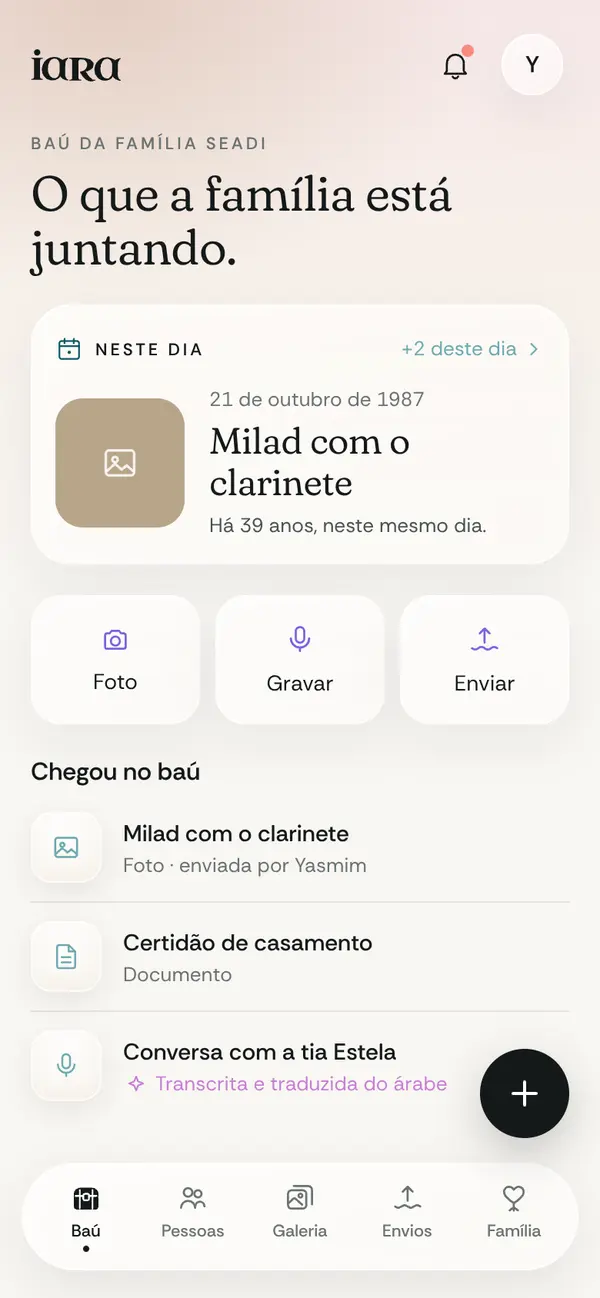
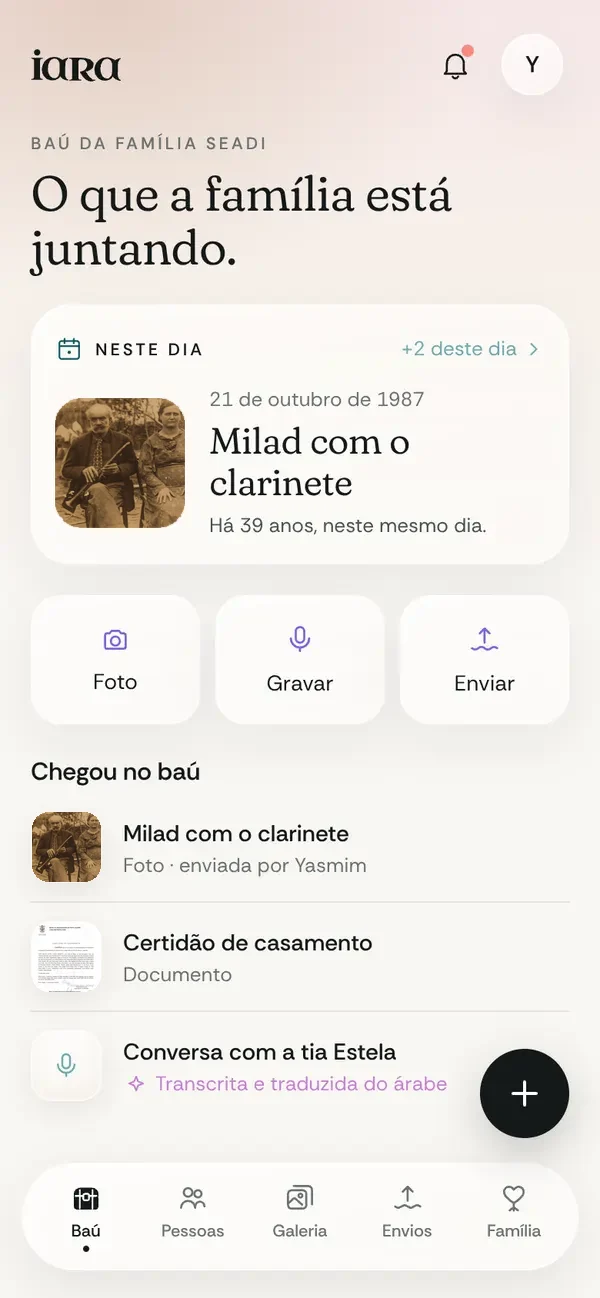
Home com fotos e documentos reais da família: telas do app, árvore com retratos, certidão no baú e foto maior
Claude-Session: https://claude.ai/code/session_016mmud4jD8DTb3bd4q9SCKJ

Changed region(s): [[0.09, 0.3082, 0.33, 0.4314], [0.03, 0.6163, 0.18, 0.678], [0.06, 0.7088, 0.15, 0.7704]]

diff --git a/ar/index.html b/ar/index.html
@@ -145,7 +145,7 @@
               <span class="legenda" data-t="t9"><b>A Brasilian summer</b>At the childhood home</span>
             </div>
             <div class="memoria-voa documento" data-voa="1.15,-0.75,7">
-              <span class="linhas"><i></i><i></i><i></i><i></i><i></i></span>
+              <img class="foto-cor doc-real" src="/imagens/historia/certidao-casamento.webp" alt="" loading="lazy" decoding="async">
               <span class="legenda" data-t="t10"><b>Marriage certificate</b>1920 · Brasil</span>
             </div>
             <div class="memoria-voa voz" data-voa="-1.2,0.55,5">
@@ -282,15 +282,15 @@
           <path pathLength="1" d="M200 357 V 511"/>
         </svg>
         <div class="uniao" style="--x:50%;--y:8.75%" data-t="t42">union</div>
-        <div class="no" style="--x:30%;--y:8.75%;--c:#e870a8" data-profundidade="0.5"><i>MA</i><b><span data-t="nomeMilad">Milad</span> <span class="bandeira">🇱🇧</span></b><small data-t="t43">great-grandfather</small></div>
-        <div class="no" style="--x:70%;--y:8.75%;--c:#f2d48d;--t:#14191a" data-profundidade="0.3"><i>AB</i><b><span data-t="nomeAnna">Anna</span> <span class="bandeira">🇮🇹</span></b><small data-t="t41">great-grandmother</small></div>
+        <div class="no" style="--x:30%;--y:8.75%;--c:#e870a8" data-profundidade="0.5"><i class="com-foto"><img src="/imagens/arvore/milad.webp" alt="" width="240" height="240" loading="lazy" decoding="async"></i><b><span data-t="nomeMilad">Milad</span> <span class="bandeira">🇱🇧</span></b><small data-t="t43">great-grandfather</small></div>
+        <div class="no" style="--x:70%;--y:8.75%;--c:#f2d48d;--t:#14191a" data-profundidade="0.3"><i class="com-foto"><img src="/imagens/arvore/anna.webp" alt="" width="240" height="240" loading="lazy" decoding="async"></i><b><span data-t="nomeAnna">Anna</span> <span class="bandeira">🇮🇹</span></b><small data-t="t41">great-grandmother</small></div>
         <div class="uniao" style="--x:50%;--y:36.25%" data-t="t42">union</div>
         <div class="no" style="--x:30%;--y:36.25%;--c:#4466dc" data-profundidade="0.4"><i>NS</i><b><span data-t="nomeNatal">Natal</span> <span class="bandeira">🇧🇷</span></b><small data-t="r2">grandfather</small></div>
         <div class="no" style="--x:70%;--y:36.25%;--c:#8cc4e2;--t:#14191a" data-profundidade="0.25"><i>DS</i><b><span data-t="nomeDiva">Diva</span> <span class="bandeira">🇧🇷</span></b><small data-t="r3">grandmother</small></div>
         <div class="uniao" style="--x:50%;--y:63.75%" data-t="t42">union</div>
-        <div class="no" style="--x:30%;--y:63.75%;--c:#0e5a63" data-profundidade="0.35"><i>FS</i><b><span data-t="nomeFelipe">Felipe</span> <span class="bandeira">🇧🇷</span></b><small data-t="t44">father</small></div>
-        <div class="no" style="--x:70%;--y:63.75%;--c:#d9a6e3;--t:#14191a" data-profundidade="0.2"><i>IS</i><b><span data-t="nomeIara">Iara</span> <span class="bandeira">🇧🇷</span></b><small data-t="t45">mother</small></div>
-        <div class="no voce" style="--x:50%;--y:91.25%;--c:#c77ed6" data-profundidade="0.3"><i>YS</i><b><span data-t="nomeYasmim">Yasmim</span> <span class="bandeira">🇧🇷</span></b><small data-t="t46">created Iara</small></div>
+        <div class="no" style="--x:30%;--y:63.75%;--c:#0e5a63" data-profundidade="0.35"><i class="com-foto"><img src="/imagens/arvore/felipe.webp" alt="" width="240" height="240" loading="lazy" decoding="async"></i><b><span data-t="nomeFelipe">Felipe</span> <span class="bandeira">🇧🇷</span></b><small data-t="t44">father</small></div>
+        <div class="no" style="--x:70%;--y:63.75%;--c:#d9a6e3;--t:#14191a" data-profundidade="0.2"><i class="com-foto"><img src="/imagens/arvore/iara.webp" alt="" width="240" height="240" loading="lazy" decoding="async"></i><b><span data-t="nomeIara">Iara</span> <span class="bandeira">🇧🇷</span></b><small data-t="t45">mother</small></div>
+        <div class="no voce" style="--x:50%;--y:91.25%;--c:#c77ed6" data-profundidade="0.3"><i class="com-foto"><img src="/imagens/arvore/yasmim.webp" alt="" width="240" height="240" loading="lazy" decoding="async"></i><b><span data-t="nomeYasmim">Yasmim</span> <span class="bandeira">🇧🇷</span></b><small data-t="t46">created Iara</small></div>
       </div>
     </section>
 

diff --git a/en/index.html b/en/index.html
@@ -145,7 +145,7 @@
               <span class="legenda" data-t="t9"><b>A Brasilian summer</b>At the childhood home</span>
             </div>
             <div class="memoria-voa documento" data-voa="1.15,-0.75,7">
-              <span class="linhas"><i></i><i></i><i></i><i></i><i></i></span>
+              <img class="foto-cor doc-real" src="/imagens/historia/certidao-casamento.webp" alt="" loading="lazy" decoding="async">
               <span class="legenda" data-t="t10"><b>Marriage certificate</b>1920 · Brasil</span>
             </div>
             <div class="memoria-voa voz" data-voa="-1.2,0.55,5">
@@ -282,15 +282,15 @@
           <path pathLength="1" d="M200 357 V 511"/>
         </svg>
         <div class="uniao" style="--x:50%;--y:8.75%" data-t="t42">union</div>
-        <div class="no" style="--x:30%;--y:8.75%;--c:#e870a8" data-profundidade="0.5"><i>MA</i><b><span data-t="nomeMilad">Milad</span> <span class="bandeira">🇱🇧</span></b><small data-t="t43">great-grandfather</small></div>
-        <div class="no" style="--x:70%;--y:8.75%;--c:#f2d48d;--t:#14191a" data-profundidade="0.3"><i>AB</i><b><span data-t="nomeAnna">Anna</span> <span class="bandeira">🇮🇹</span></b><small data-t="t41">great-grandmother</small></div>
+        <div class="no" style="--x:30%;--y:8.75%;--c:#e870a8" data-profundidade="0.5"><i class="com-foto"><img src="/imagens/arvore/milad.webp" alt="" width="240" height="240" loading="lazy" decoding="async"></i><b><span data-t="nomeMilad">Milad</span> <span class="bandeira">🇱🇧</span></b><small data-t="t43">great-grandfather</small></div>
+        <div class="no" style="--x:70%;--y:8.75%;--c:#f2d48d;--t:#14191a" data-profundidade="0.3"><i class="com-foto"><img src="/imagens/arvore/anna.webp" alt="" width="240" height="240" loading="lazy" decoding="async"></i><b><span data-t="nomeAnna">Anna</span> <span class="bandeira">🇮🇹</span></b><small data-t="t41">great-grandmother</small></div>
         <div class="uniao" style="--x:50%;--y:36.25%" data-t="t42">union</div>
         <div class="no" style="--x:30%;--y:36.25%;--c:#4466dc" data-profundidade="0.4"><i>NS</i><b><span data-t="nomeNatal">Natal</span> <span class="bandeira">🇧🇷</span></b><small data-t="r2">grandfather</small></div>
         <div class="no" style="--x:70%;--y:36.25%;--c:#8cc4e2;--t:#14191a" data-profundidade="0.25"><i>DS</i><b><span data-t="nomeDiva">Diva</span> <span class="bandeira">🇧🇷</span></b><small data-t="r3">grandmother</small></div>
         <div class="uniao" style="--x:50%;--y:63.75%" data-t="t42">union</div>
-        <div class="no" style="--x:30%;--y:63.75%;--c:#0e5a63" data-profundidade="0.35"><i>FS</i><b><span data-t="nomeFelipe">Felipe</span> <span class="bandeira">🇧🇷</span></b><small data-t="t44">father</small></div>
-        <div class="no" style="--x:70%;--y:63.75%;--c:#d9a6e3;--t:#14191a" data-profundidade="0.2"><i>IS</i><b><span data-t="nomeIara">Iara</span> <span class="bandeira">🇧🇷</span></b><small data-t="t45">mother</small></div>
-        <div class="no voce" style="--x:50%;--y:91.25%;--c:#c77ed6" data-profundidade="0.3"><i>YS</i><b><span data-t="nomeYasmim">Yasmim</span> <span class="bandeira">🇧🇷</span></b><small data-t="t46">created Iara</small></div>
+        <div class="no" style="--x:30%;--y:63.75%;--c:#0e5a63" data-profundidade="0.35"><i class="com-foto"><img src="/imagens/arvore/felipe.webp" alt="" width="240" height="240" loading="lazy" decoding="async"></i><b><span data-t="nomeFelipe">Felipe</span> <span class="bandeira">🇧🇷</span></b><small data-t="t44">father</small></div>
+        <div class="no" style="--x:70%;--y:63.75%;--c:#d9a6e3;--t:#14191a" data-profundidade="0.2"><i class="com-foto"><img src="/imagens/arvore/iara.webp" alt="" width="240" height="240" loading="lazy" decoding="async"></i><b><span data-t="nomeIara">Iara</span> <span class="bandeira">🇧🇷</span></b><small data-t="t45">mother</small></div>
+        <div class="no voce" style="--x:50%;--y:91.25%;--c:#c77ed6" data-profundidade="0.3"><i class="com-foto"><img src="/imagens/arvore/yasmim.webp" alt="" width="240" height="240" loading="lazy" decoding="async"></i><b><span data-t="nomeYasmim">Yasmim</span> <span class="bandeira">🇧🇷</span></b><small data-t="t46">created Iara</small></div>
       </div>
     </section>
 

diff --git a/fr/index.html b/fr/index.html
@@ -145,7 +145,7 @@
               <span class="legenda" data-t="t9"><b>A Brasilian summer</b>At the childhood home</span>
             </div>
             <div class="memoria-voa documento" data-voa="1.15,-0.75,7">
-              <span class="linhas"><i></i><i></i><i></i><i></i><i></i></span>
+              <img class="foto-cor doc-real" src="/imagens/historia/certidao-casamento.webp" alt="" loading="lazy" decoding="async">
               <span class="legenda" data-t="t10"><b>Marriage certificate</b>1920 · Brasil</span>
             </div>
             <div class="memoria-voa voz" data-voa="-1.2,0.55,5">
@@ -282,15 +282,15 @@
           <path pathLength="1" d="M200 357 V 511"/>
         </svg>
         <div class="uniao" style="--x:50%;--y:8.75%" data-t="t42">union</div>
-        <div class="no" style="--x:30%;--y:8.75%;--c:#e870a8" data-profundidade="0.5"><i>MA</i><b><span data-t="nomeMilad">Milad</span> <span class="bandeira">🇱🇧</span></b><small data-t="t43">great-grandfather</small></div>
-        <div class="no" style="--x:70%;--y:8.75%;--c:#f2d48d;--t:#14191a" data-profundidade="0.3"><i>AB</i><b><span data-t="nomeAnna">Anna</span> <span class="bandeira">🇮🇹</span></b><small data-t="t41">great-grandmother</small></div>
+        <div class="no" style="--x:30%;--y:8.75%;--c:#e870a8" data-profundidade="0.5"><i class="com-foto"><img src="/imagens/arvore/milad.webp" alt="" width="240" height="240" loading="lazy" decoding="async"></i><b><span data-t="nomeMilad">Milad</span> <span class="bandeira">🇱🇧</span></b><small data-t="t43">great-grandfather</small></div>
+        <div class="no" style="--x:70%;--y:8.75%;--c:#f2d48d;--t:#14191a" data-profundidade="0.3"><i class="com-foto"><img src="/imagens/arvore/anna.webp" alt="" width="240" height="240" loading="lazy" decoding="async"></i><b><span data-t="nomeAnna">Anna</span> <span class="bandeira">🇮🇹</span></b><small data-t="t41">great-grandmother</small></div>
         <div class="uniao" style="--x:50%;--y:36.25%" data-t="t42">union</div>
         <div class="no" style="--x:30%;--y:36.25%;--c:#4466dc" data-profundidade="0.4"><i>NS</i><b><span data-t="nomeNatal">Natal</span> <span class="bandeira">🇧🇷</span></b><small data-t="r2">grandfather</small></div>
         <div class="no" style="--x:70%;--y:36.25%;--c:#8cc4e2;--t:#14191a" data-profundidade="0.25"><i>DS</i><b><span data-t="nomeDiva">Diva</span> <span class="bandeira">🇧🇷</span></b><small data-t="r3">grandmother</small></div>
         <div class="uniao" style="--x:50%;--y:63.75%" data-t="t42">union</div>
-        <div class="no" style="--x:30%;--y:63.75%;--c:#0e5a63" data-profundidade="0.35"><i>FS</i><b><span data-t="nomeFelipe">Felipe</span> <span class="bandeira">🇧🇷</span></b><small data-t="t44">father</small></div>
-        <div class="no" style="--x:70%;--y:63.75%;--c:#d9a6e3;--t:#14191a" data-profundidade="0.2"><i>IS</i><b><span data-t="nomeIara">Iara</span> <span class="bandeira">🇧🇷</span></b><small data-t="t45">mother</small></div>
-        <div class="no voce" style="--x:50%;--y:91.25%;--c:#c77ed6" data-profundidade="0.3"><i>YS</i><b><span data-t="nomeYasmim">Yasmim</span> <span class="bandeira">🇧🇷</span></b><small data-t="t46">created Iara</small></div>
+        <div class="no" style="--x:30%;--y:63.75%;--c:#0e5a63" data-profundidade="0.35"><i class="com-foto"><img src="/imagens/arvore/felipe.webp" alt="" width="240" height="240" loading="lazy" decoding="async"></i><b><span data-t="nomeFelipe">Felipe</span> <span class="bandeira">🇧🇷</span></b><small data-t="t44">father</small></div>
+        <div class="no" style="--x:70%;--y:63.75%;--c:#d9a6e3;--t:#14191a" data-profundidade="0.2"><i class="com-foto"><img src="/imagens/arvore/iara.webp" alt="" width="240" height="240" loading="lazy" decoding="async"></i><b><span data-t="nomeIara">Iara</span> <span class="bandeira">🇧🇷</span></b><small data-t="t45">mother</small></div>
+        <div class="no voce" style="--x:50%;--y:91.25%;--c:#c77ed6" data-profundidade="0.3"><i class="com-foto"><img src="/imagens/arvore/yasmim.webp" alt="" width="240" height="240" loading="lazy" decoding="async"></i><b><span data-t="nomeYasmim">Yasmim</span> <span class="bandeira">🇧🇷</span></b><small data-t="t46">created Iara</small></div>
       </div>
     </section>
 

diff --git a/index.html b/index.html
@@ -144,7 +144,7 @@
               <span class="legenda" data-t="t9"><b>A Brasilian summer</b>At the childhood home</span>
             </div>
             <div class="memoria-voa documento" data-voa="1.15,-0.75,7">
-              <span class="linhas"><i></i><i></i><i></i><i></i><i></i></span>
+              <img class="foto-cor doc-real" src="/imagens/historia/certidao-casamento.webp" alt="" loading="lazy" decoding="async">
               <span class="legenda" data-t="t10"><b>Marriage certificate</b>1920 · Brasil</span>
             </div>
             <div class="memoria-voa voz" data-voa="-1.2,0.55,5">
@@ -281,15 +281,15 @@
           <path pathLength="1" d="M200 357 V 511"/>
         </svg>
         <div class="uniao" style="--x:50%;--y:8.75%" data-t="t42">union</div>
-        <div class="no" style="--x:30%;--y:8.75%;--c:#e870a8" data-profundidade="0.5"><i>MA</i><b><span data-t="nomeMilad">Milad</span> <span class="bandeira">🇱🇧</span></b><small data-t="t43">great-grandfather</small></div>
-        <div class="no" style="--x:70%;--y:8.75%;--c:#f2d48d;--t:#14191a" data-profundidade="0.3"><i>AB</i><b><span data-t="nomeAnna">Anna</span> <span class="bandeira">🇮🇹</span></b><small data-t="t41">great-grandmother</small></div>
+        <div class="no" style="--x:30%;--y:8.75%;--c:#e870a8" data-profundidade="0.5"><i class="com-foto"><img src="/imagens/arvore/milad.webp" alt="" width="240" height="240" loading="lazy" decoding="async"></i><b><span data-t="nomeMilad">Milad</span> <span class="bandeira">🇱🇧</span></b><small data-t="t43">great-grandfather</small></div>
+        <div class="no" style="--x:70%;--y:8.75%;--c:#f2d48d;--t:#14191a" data-profundidade="0.3"><i class="com-foto"><img src="/imagens/arvore/anna.webp" alt="" width="240" height="240" loading="lazy" decoding="async"></i><b><span data-t="nomeAnna">Anna</span> <span class="bandeira">🇮🇹</span></b><small data-t="t41">great-grandmother</small></div>
         <div class="uniao" style="--x:50%;--y:36.25%" data-t="t42">union</div>
         <div class="no" style="--x:30%;--y:36.25%;--c:#4466dc" data-profundidade="0.4"><i>NS</i><b><span data-t="nomeNatal">Natal</span> <span class="bandeira">🇧🇷</span></b><small data-t="r2">grandfather</small></div>
         <div class="no" style="--x:70%;--y:36.25%;--c:#8cc4e2;--t:#14191a" data-profundidade="0.25"><i>DS</i><b><span data-t="nomeDiva">Diva</span> <span class="bandeira">🇧🇷</span></b><small data-t="r3">grandmother</small></div>
         <div class="uniao" style="--x:50%;--y:63.75%" data-t="t42">union</div>
-        <div class="no" style="--x:30%;--y:63.75%;--c:#0e5a63" data-profundidade="0.35"><i>FS</i><b><span data-t="nomeFelipe">Felipe</span> <span class="bandeira">🇧🇷</span></b><small data-t="t44">father</small></div>
-        <div class="no" style="--x:70%;--y:63.75%;--c:#d9a6e3;--t:#14191a" data-profundidade="0.2"><i>IS</i><b><span data-t="nomeIara">Iara</span> <span class="bandeira">🇧🇷</span></b><small data-t="t45">mother</small></div>
-        <div class="no voce" style="--x:50%;--y:91.25%;--c:#c77ed6" data-profundidade="0.3"><i>YS</i><b><span data-t="nomeYasmim">Yasmim</span> <span class="bandeira">🇧🇷</span></b><small data-t="t46">created Iara</small></div>
+        <div class="no" style="--x:30%;--y:63.75%;--c:#0e5a63" data-profundidade="0.35"><i class="com-foto"><img src="/imagens/arvore/felipe.webp" alt="" width="240" height="240" loading="lazy" decoding="async"></i><b><span data-t="nomeFelipe">Felipe</span> <span class="bandeira">🇧🇷</span></b><small data-t="t44">father</small></div>
+        <div class="no" style="--x:70%;--y:63.75%;--c:#d9a6e3;--t:#14191a" data-profundidade="0.2"><i class="com-foto"><img src="/imagens/arvore/iara.webp" alt="" width="240" height="240" loading="lazy" decoding="async"></i><b><span data-t="nomeIara">Iara</span> <span class="bandeira">🇧🇷</span></b><small data-t="t45">mother</small></div>
+        <div class="no voce" style="--x:50%;--y:91.25%;--c:#c77ed6" data-profundidade="0.3"><i class="com-foto"><img src="/imagens/arvore/yasmim.webp" alt="" width="240" height="240" loading="lazy" decoding="async"></i><b><span data-t="nomeYasmim">Yasmim</span> <span class="bandeira">🇧🇷</span></b><small data-t="t46">created Iara</small></div>
       </div>
     </section>
 

diff --git a/pt/index.html b/pt/index.html
@@ -145,7 +145,7 @@
               <span class="legenda" data-t="t9"><b>A Brasilian summer</b>At the childhood home</span>
             </div>
             <div class="memoria-voa documento" data-voa="1.15,-0.75,7">
-              <span class="linhas"><i></i><i></i><i></i><i></i><i></i></span>
+              <img class="foto-cor doc-real" src="/imagens/historia/certidao-casamento.webp" alt="" loading="lazy" decoding="async">
               <span class="legenda" data-t="t10"><b>Marriage certificate</b>1920 · Brasil</span>
             </div>
             <div class="memoria-voa voz" data-voa="-1.2,0.55,5">
@@ -282,15 +282,15 @@
           <path pathLength="1" d="M200 357 V 511"/>
         </svg>
         <div class="uniao" style="--x:50%;--y:8.75%" data-t="t42">union</div>
-        <div class="no" style="--x:30%;--y:8.75%;--c:#e870a8" data-profundidade="0.5"><i>MA</i><b><span data-t="nomeMilad">Milad</span> <span class="bandeira">🇱🇧</span></b><small data-t="t43">great-grandfather</small></div>
-        <div class="no" style="--x:70%;--y:8.75%;--c:#f2d48d;--t:#14191a" data-profundidade="0.3"><i>AB</i><b><span data-t="nomeAnna">Anna</span> <span class="bandeira">🇮🇹</span></b><small data-t="t41">great-grandmother</small></div>
+        <div class="no" style="--x:30%;--y:8.75%;--c:#e870a8" data-profundidade="0.5"><i class="com-foto"><img src="/imagens/arvore/milad.webp" alt="" width="240" height="240" loading="lazy" decoding="async"></i><b><span data-t="nomeMilad">Milad</span> <span class="bandeira">🇱🇧</span></b><small data-t="t43">great-grandfather</small></div>
+        <div class="no" style="--x:70%;--y:8.75%;--c:#f2d48d;--t:#14191a" data-profundidade="0.3"><i class="com-foto"><img src="/imagens/arvore/anna.webp" alt="" width="240" height="240" loading="lazy" decoding="async"></i><b><span data-t="nomeAnna">Anna</span> <span class="bandeira">🇮🇹</span></b><small data-t="t41">great-grandmother</small></div>
         <div class="uniao" style="--x:50%;--y:36.25%" data-t="t42">union</div>
         <div class="no" style="--x:30%;--y:36.25%;--c:#4466dc" data-profundidade="0.4"><i>NS</i><b><span data-t="nomeNatal">Natal</span> <span class="bandeira">🇧🇷</span></b><small data-t="r2">grandfather</small></div>
         <div class="no" style="--x:70%;--y:36.25%;--c:#8cc4e2;--t:#14191a" data-profundidade="0.25"><i>DS</i><b><span data-t="nomeDiva">Diva</span> <span class="bandeira">🇧🇷</span></b><small data-t="r3">grandmother</small></div>
         <div class="uniao" style="--x:50%;--y:63.75%" data-t="t42">union</div>
-        <div class="no" style="--x:30%;--y:63.75%;--c:#0e5a63" data-profundidade="0.35"><i>FS</i><b><span data-t="nomeFelipe">Felipe</span> <span class="bandeira">🇧🇷</span></b><small data-t="t44">father</small></div>
-        <div class="no" style="--x:70%;--y:63.75%;--c:#d9a6e3;--t:#14191a" data-profundidade="0.2"><i>IS</i><b><span data-t="nomeIara">Iara</span> <span class="bandeira">🇧🇷</span></b><small data-t="t45">mother</small></div>
-        <div class="no voce" style="--x:50%;--y:91.25%;--c:#c77ed6" data-profundidade="0.3"><i>YS</i><b><span data-t="nomeYasmim">Yasmim</span> <span class="bandeira">🇧🇷</span></b><small data-t="t46">created Iara</small></div>
+        <div class="no" style="--x:30%;--y:63.75%;--c:#0e5a63" data-profundidade="0.35"><i class="com-foto"><img src="/imagens/arvore/felipe.webp" alt="" width="240" height="240" loading="lazy" decoding="async"></i><b><span data-t="nomeFelipe">Felipe</span> <span class="bandeira">🇧🇷</span></b><small data-t="t44">father</small></div>
+        <div class="no" style="--x:70%;--y:63.75%;--c:#d9a6e3;--t:#14191a" data-profundidade="0.2"><i class="com-foto"><img src="/imagens/arvore/iara.webp" alt="" width="240" height="240" loading="lazy" decoding="async"></i><b><span data-t="nomeIara">Iara</span> <span class="bandeira">🇧🇷</span></b><small data-t="t45">mother</small></div>
+        <div class="no voce" style="--x:50%;--y:91.25%;--c:#c77ed6" data-profundidade="0.3"><i class="com-foto"><img src="/imagens/arvore/yasmim.webp" alt="" width="240" height="240" loading="lazy" decoding="async"></i><b><span data-t="nomeYasmim">Yasmim</span> <span class="bandeira">🇧🇷</span></b><small data-t="t46">created Iara</small></div>
       </div>
     </section>
 

diff --git a/estilo.css b/estilo.css
@@ -146,9 +146,11 @@ h3 { font-size: 23px; line-height: 1.15; font-variation-settings: "SOFT" 100, "o
 .bau-desenho { position: relative; z-index: 2; width: min(46vw, 300px); aspect-ratio: 576 / 408; background: var(--petroleo); opacity: 0.85; -webkit-mask: url(imagens/bau.png) center / contain no-repeat; mask: url(imagens/bau.png) center / contain no-repeat; transform: scale(calc(0.92 + var(--brilho, 0) * 0.1)); transition: transform 0.2s; }
 .bau-luz { position: absolute; z-index: 1; width: min(70vw, 440px); aspect-ratio: 1; border-radius: 50%; background: radial-gradient(circle, rgba(212, 175, 98, 0.28), transparent 62%); filter: blur(30px); opacity: var(--brilho, 0); }
 .memoria-voa { position: absolute; z-index: 3; width: 196px; border-radius: 22px; padding: 12px; background: var(--vidro); backdrop-filter: var(--vidro-desfoque); -webkit-backdrop-filter: var(--vidro-desfoque); box-shadow: var(--vidro-borda), 0 24px 50px -20px rgba(14, 50, 56, 0.35); will-change: transform, opacity; font-size: 13px; }
+.memoria-voa.foto { width: 248px; }
+.foto-cor.doc-real { object-position: 50% 18%; background: #fff; }
 .memoria-voa .legenda { display: block; color: var(--tinta-2); line-height: 1.35; }
 .memoria-voa .legenda b { display: block; font-family: var(--titulo); font-weight: 400; font-size: 17px; color: var(--tinta); }
-.foto-cor { display: block; width: 100%; height: 104px; object-fit: cover; object-position: 50% 45%; border-radius: 14px; background: #d9b77d; margin-bottom: 10px; }
+.foto-cor { display: block; width: 100%; height: 150px; object-fit: cover; object-position: 50% 45%; border-radius: 14px; background: #d9b77d; margin-bottom: 10px; }
 .linhas { display: grid; gap: 7px; padding: 14px 12px; border-radius: 14px; background: #efe5cf; margin-bottom: 10px; }
 .linhas i { height: 4px; border-radius: 2px; background: #c9b089; }
 .linhas i:nth-child(1) { width: 50%; margin: 0 auto 4px; height: 6px; }
@@ -210,6 +212,9 @@ h3 { font-size: 23px; line-height: 1.15; font-variation-settings: "SOFT" 100, "o
 .no small { font-size: 13px; color: var(--tinta-3); white-space: nowrap; }
 .no.convidar small { color: var(--petroleo); }
 .no.voce i { background: var(--petroleo); color: #fff; }
+/* quem tem foto: o retrato ocupa o círculo, com o mesmo anel */
+.no i.com-foto { overflow: hidden; background: #ece7dc; }
+.no i.com-foto img { width: 100%; height: 100%; object-fit: cover; border-radius: 50%; display: block; }
 .bandeira { font-size: 12px; }
 .uniao { position: absolute; left: var(--x); top: var(--y); transform: translate(-50%, -50%) scale(var(--s, 0)); font-size: 12px; color: #a47f45; padding: 3px 10px; border-radius: 999px; background: var(--fundo); box-shadow: inset 0 0 0 1px #d8bd8c; }
 
@@ -289,6 +294,8 @@ h3 { font-size: 23px; line-height: 1.15; font-variation-settings: "SOFT" 100, "o
   .no b { font-size: 14px; }
   .no small { font-size: 12px; }
   .memoria-voa { width: 150px; font-size: 12px; padding: 10px; }
+  .memoria-voa.foto { width: 184px; }
+  .memoria-voa.foto .foto-cor { height: 112px; }
   .memoria-voa .legenda b { font-size: 15px; }
   .foto-cor { height: 74px; }
   .cuidado-cabeca { flex-direction: column; align-items: flex-start; }
